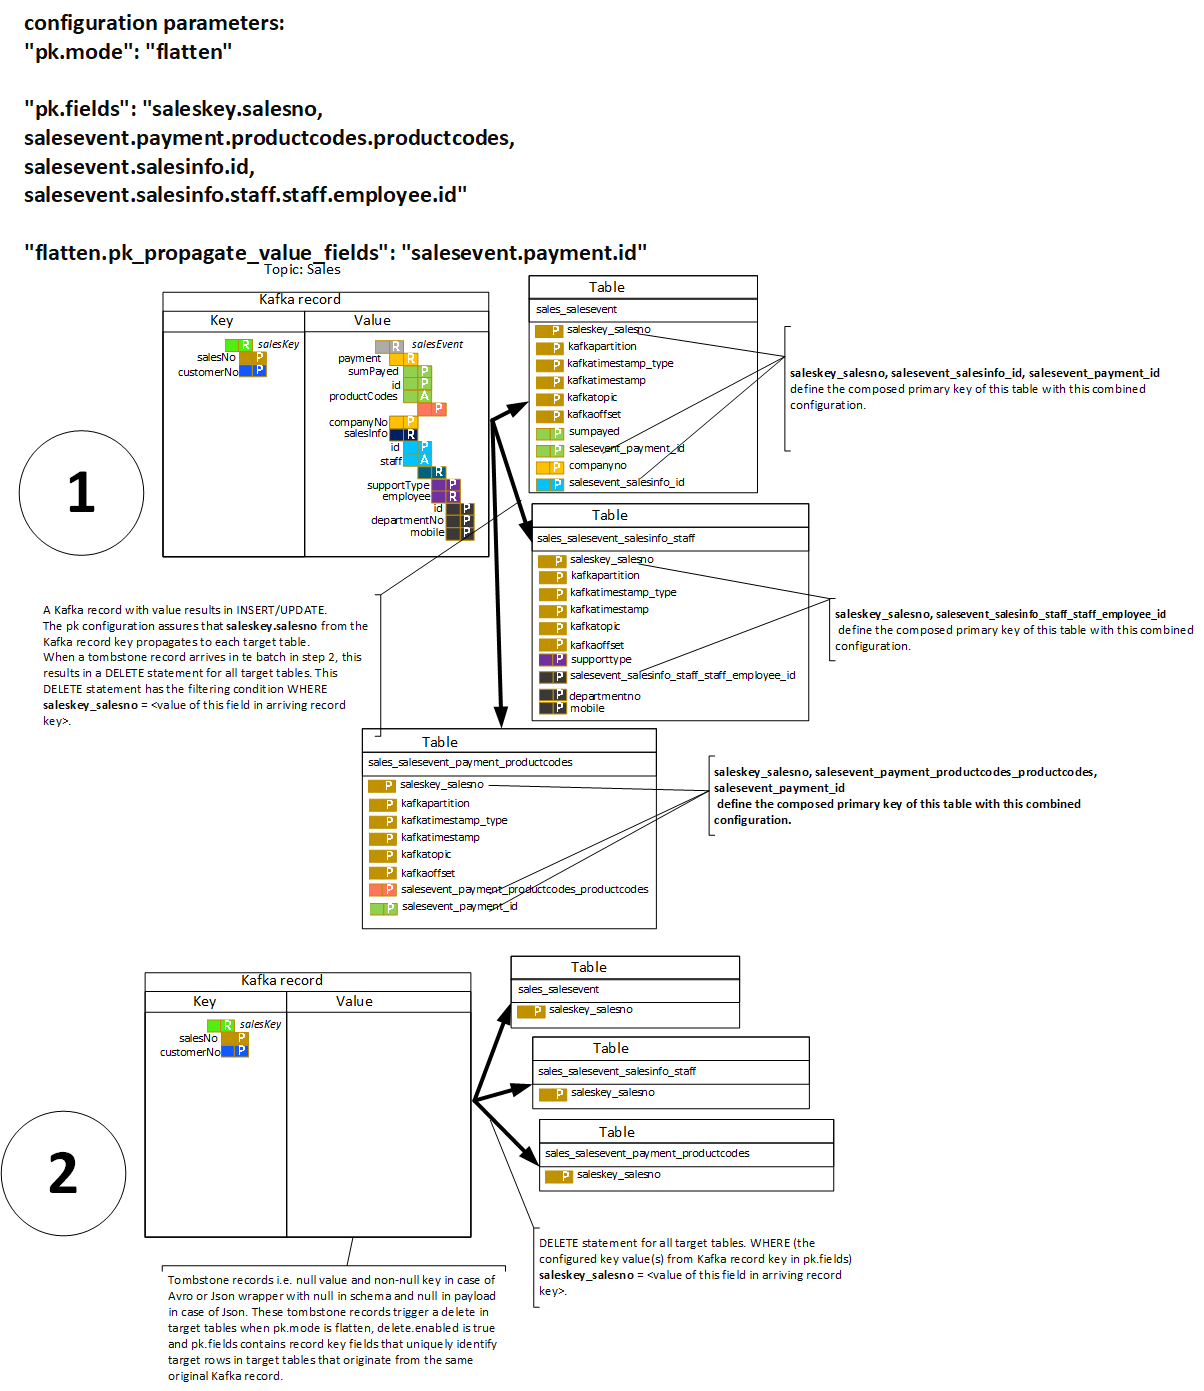
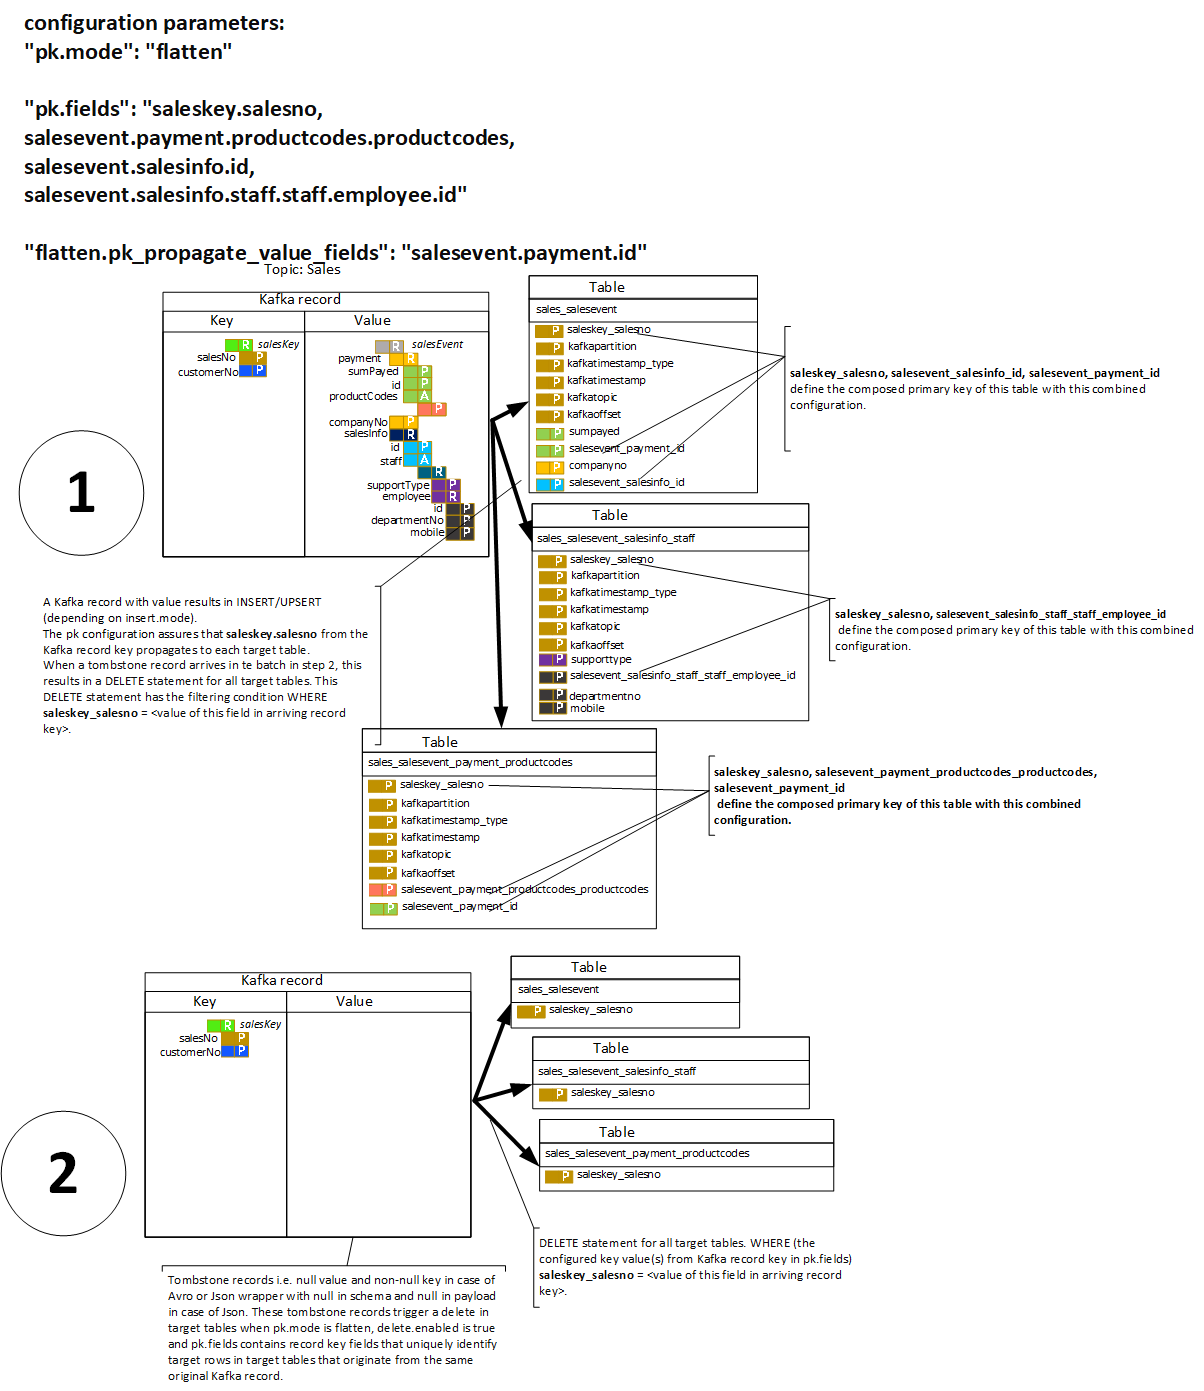
Updated readme with insert.mode configuration setting

Changed region(s): [[0.0307, 0.4328, 0.3073, 0.5255]]

diff --git a/README.md b/README.md
@@ -166,6 +166,24 @@ default `false`
 
      Whether to treat null record values as deletes. 
      Requires flatten as pk.mode and a unique field from the record key to be configured in pk.fields.
+     
+## insert.mode
+default `insert`
+<p>
+    <img src="readme_pics/insert_mode.png" alt="insert.mode config parameter image"
+    	title="insert mode config parameter" width="150" height="100" />
+</p>
+       
+     With insert.mode = insert, flattened records get inserted to their respective target tables. The existing table
+     rows are not changed.
+     With insert.mode = upsert, flattened records result in a two-step operation. First a delete statement for relevant
+     target table is executed to remove any content related to the specific record key primary key that is configured.
+     This requires a unique field from the record key to be configured in pk.fields.
+     In the second step, the new flattened records get inserted to their respective target table.
+     Because the connector operates with batched preparedstatements, if it detects multiple flattened records with the 
+     same key but different coordinates (offset, partition) it executes a flush before continueing with the remainder of
+     the batch.
+     insert.mode = update is not supported byt this connector when flattening is enabled.
 
 # License
 
